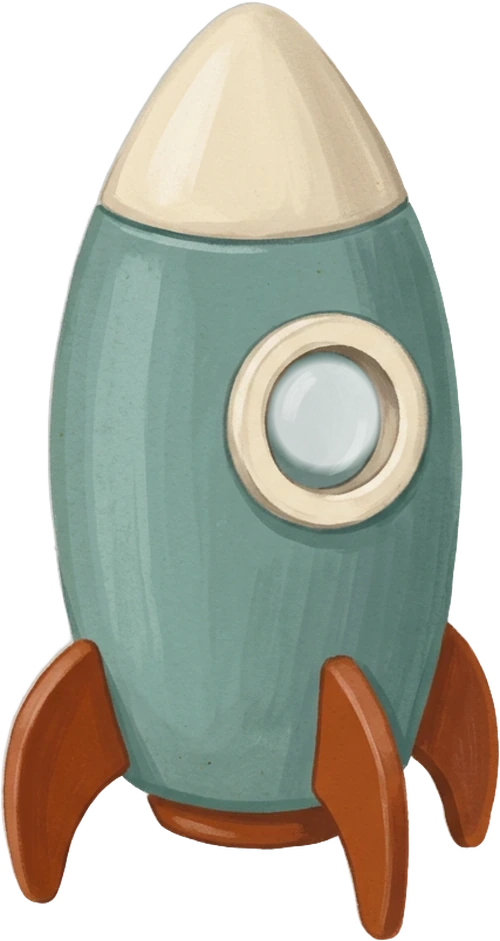
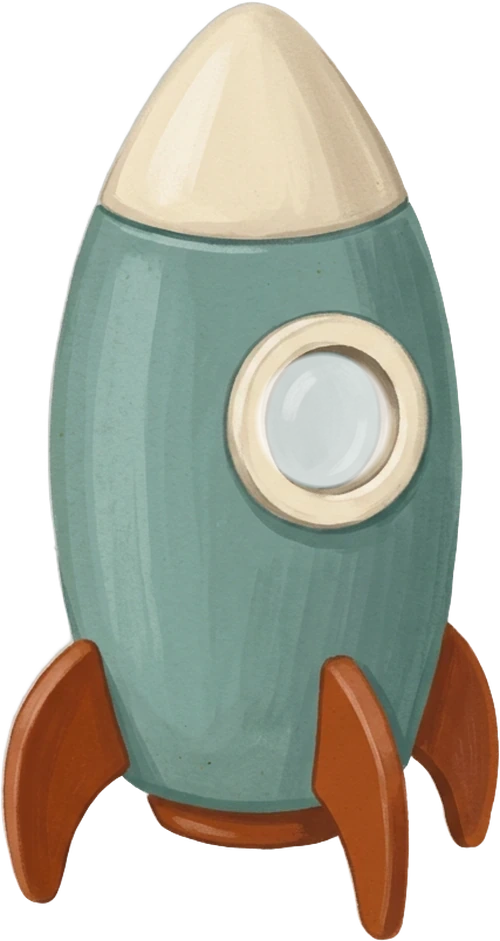
feat: (1)대환장 테스트 지구 62% 축소(로컬 합성, 하늘 그레인 페더 메꿈)+한반도를 빨간 채움 대신 코랄 테두리선으로 완화, 호버 링은 다른 행성과 동일한 큰 크기(r78)로, (2)우주선 유리 전체 개방 — 링 안쪽 실측(중심 322.7,420.2·반경 67)으로 재타공해 왼쪽까지 눈이 보이게, 선실·빼꼼 원도 실측 좌표(0.645/0.447·지름 28%)로 확대

Changed region(s): [[0.51, 0.3698, 0.78, 0.5239]]

diff --git a/index.html b/index.html
@@ -624,8 +624,8 @@
       objshad.style.transform = "translate(" + (rcx + rdN * 90 - rsw / 2) + "px," + (groundY() + 12 - rsh / 2) + "px)";
 
       // 창문 빼꼼 원형 클립 위치(창 중심 0.65, 0.44 / 유리 지름 0.24×몸폭)
-      var pd = ow * 0.25; // 뚫린 유리 구멍을 뒤에서 완전히 덮는 크기(발사 중엔 로켓을 따라감)
-      var pcx = ox + rjx + ow * 0.65 - pd / 2, pcy = oy - rdy + oh * 0.44 - pd / 2;
+      var pd = ow * 0.28; // 유리 전체(실측 중심 0.645/0.447·지름 26.8%)를 뒤에서 완전히 덮는 크기
+      var pcx = ox + rjx + ow * 0.645 - pd / 2, pcy = oy - rdy + oh * 0.447 - pd / 2;
       cabin.style.width = pd + "px"; cabin.style.height = pd + "px";
       cabin.style.transform = "translate(" + pcx + "px," + pcy + "px)";
       peek.style.width = pd + "px"; peek.style.height = pd + "px";

diff --git a/play/tests.html b/play/tests.html
@@ -140,7 +140,7 @@
       var vp = document.createElement("div");
       vp.style.cssText = "position:fixed;inset:0;pointer-events:none;visibility:hidden";
       document.body.appendChild(vp);
-      var SAT = { w: 1376, h: 768, x: 1160, y: 191, r: 60 }; // 이 페이지 천체=작은 지구(본체 실측: 중심 1154,184 · 지름 130)
+      var SAT = { w: 1376, h: 768, x: 1158, y: 185, r: 78 }; // 작은 지구 — 링은 다른 행성과 동일한 큰 크기
       function place() {
         var vb = vp.getBoundingClientRect();
         var W = vb.width, H = vb.height;
